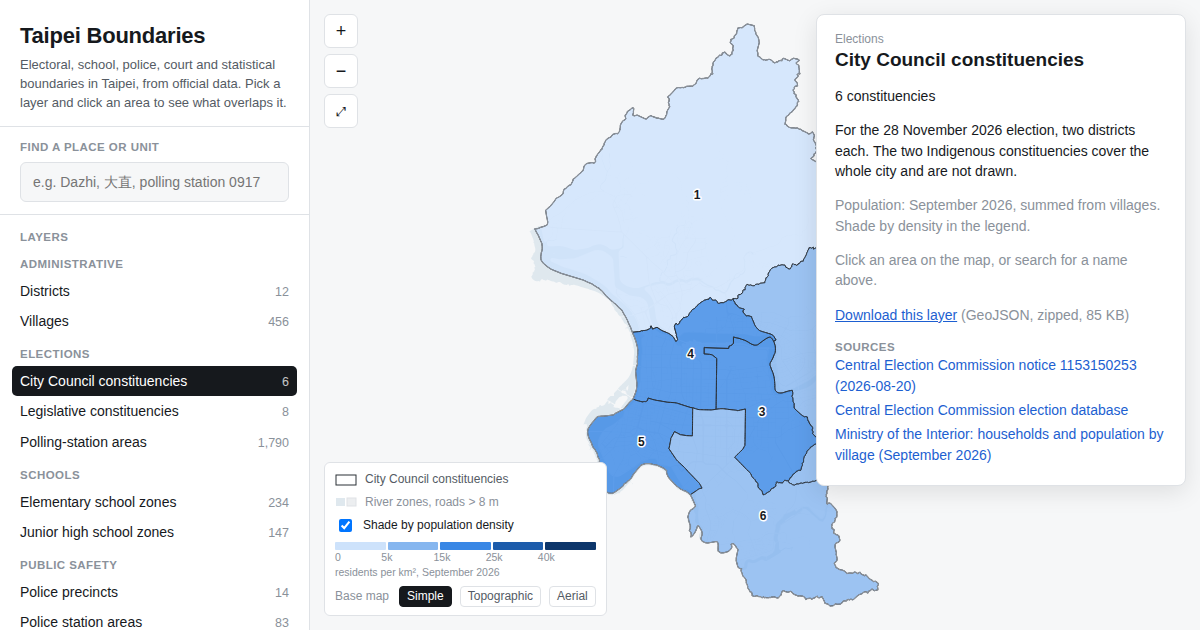
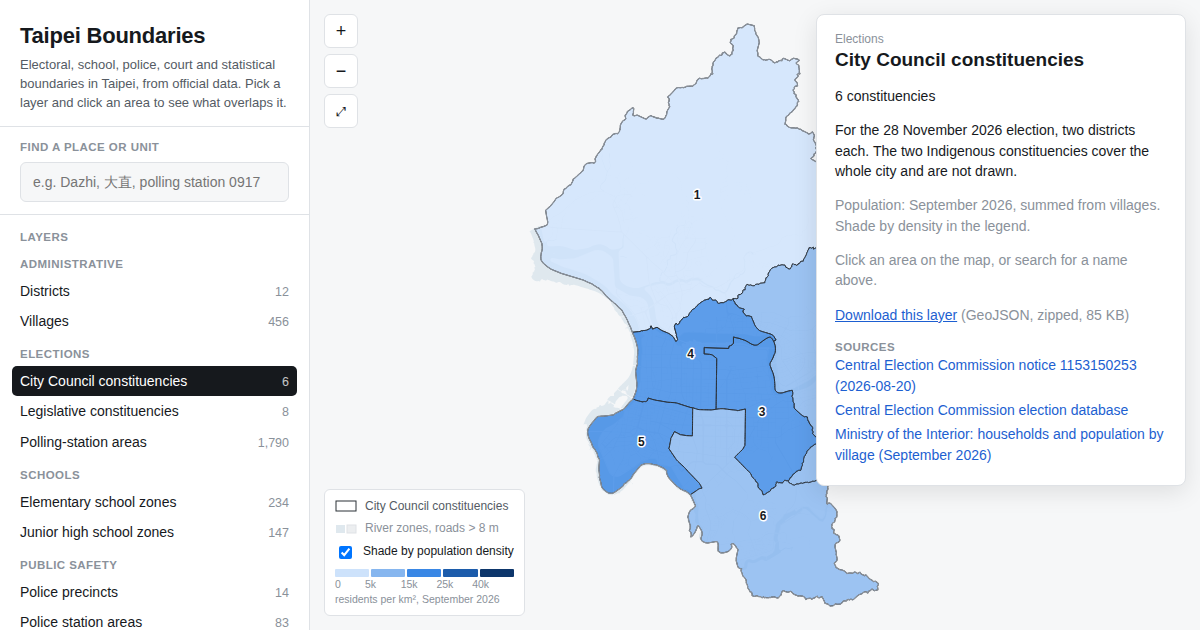
Taipei Boundaries: Layers switch with street map, aerial photo and Simple
The legend's base-map buttons become a Google-Maps-style Layers thumbnail
that opens one thumbnail per base map. The topographic map is dropped; the
Urban Development Department's street map (EMap_97) is added, faded to
50% in its own colours (inverted with hues kept in dark mode). Our own
MRT dots are not drawn over the street map, which has its own.

Claude-Session: https://claude.ai/code/session_01BnXE7ooyv3tu27QzrM6csQ

Changed region(s): [[0.2775, 0.754, 0.4933, 0.9651], [0.4933, 0.7238, 0.5242, 0.7841]]

diff --git a/index.html b/index.html
@@ -141,27 +141,37 @@ svg.map { display: block; width: 100%; height: 100%; background: var(--bg); touc
 svg.map { position: relative; }
 .tiles { position: absolute; left: 0; top: 0; width: 100%; overflow: hidden; pointer-events: none; z-index: 0; }  /* own stacking context: tiles stay under the map, buttons and legend */
 .tiles img { position: absolute; max-width: none; user-select: none; -webkit-user-drag: none; }
-.tiles.topo { filter: grayscale(1); opacity: .75; }
-@media (prefers-color-scheme: dark) { :root:not([data-theme="light"]) .tiles.topo { filter: grayscale(1) invert(1); opacity: .6; } }
-:root[data-theme="dark"] .tiles.topo { filter: grayscale(1) invert(1); opacity: .6; }
+.tiles.emap, .bm-thumb.emap { opacity: .5; }  /* the street map keeps its colours, faded so the boundaries stay on top */
+@media (prefers-color-scheme: dark) { :root:not([data-theme="light"]) :is(.tiles, .bm-thumb).emap { filter: invert(1) hue-rotate(180deg); opacity: .45; } }
+:root[data-theme="dark"] :is(.tiles, .bm-thumb).emap { filter: invert(1) hue-rotate(180deg); opacity: .45; }
+.base-emap { background: var(--land); }
 .has-tiles svg.map { background: transparent; }
 .has-tiles .land { fill: none; }
 /* the city's tiles carry neighbouring areas too (the aerial photo fills them with black): cover everything outside the city */
 .outside { display: none; }
 .has-tiles .outside { display: inline; fill: var(--bg); fill-rule: evenodd; pointer-events: none; }
 .has-tiles .water, .has-tiles .roads { display: none; }
-.base-topo .unit { stroke: var(--ink); stroke-width: 1.1; }
-.base-topo .unit.sparse { stroke-width: 1.6; }
+.base-emap .unit { stroke: var(--ink); stroke-width: 1.1; }
+.base-emap .unit.sparse { stroke-width: 1.6; }
 .base-aerial .unit { stroke: #fff; stroke-width: 1.2; }
 .base-aerial .unit.sparse { stroke-width: 1.8; }
 .base-aerial .city-edge { stroke: #fff; }
 .base-aerial .ctx { stroke: rgba(255, 255, 255, .6); }
-.legend .base { flex-wrap: wrap; gap: 4px; }
-.legend .base-k { color: var(--ink-3); margin-right: 2px; }
-.legend .base button { border: 1px solid var(--rule); background: var(--panel); border-radius: 4px; padding: 1px 7px; color: var(--ink-2); cursor: pointer; }
-.legend .base button:hover { background: var(--hover); }
-.legend .base button:focus-visible { outline: 2px solid var(--accent); }
-.legend .base button[aria-pressed="true"] { background: var(--ink); border-color: var(--ink); color: var(--panel); }
+/* base map switch, as in Google Maps: a thumbnail button that opens a row of thumbnails, one per base map */
+.basemaps { position: absolute; left: 14px; bottom: 14px; z-index: 3; display: flex; align-items: flex-end; gap: 8px; }
+.bm-toggle { position: relative; width: 64px; height: 64px; padding: 0; border: 2px solid #fff; border-radius: 8px; overflow: hidden;
+  background: var(--land); box-shadow: 0 1px 4px rgba(0, 0, 0, .3); cursor: pointer; }
+.bm-toggle:focus-visible, .bm-menu button:focus-visible { outline: 2px solid var(--accent); outline-offset: 2px; }
+.bm-thumb { display: block; width: 100%; height: 100%; object-fit: cover; }
+.bm-label { position: absolute; left: 0; right: 0; bottom: 0; display: flex; justify-content: center; align-items: center; gap: 3px;
+  padding: 14px 0 4px; color: #fff; font-size: 11px; font-weight: 600; background: linear-gradient(rgba(0, 0, 0, 0), rgba(0, 0, 0, .6)); }
+.bm-menu { display: flex; gap: 8px; padding: 6px 8px; background: var(--panel); border: 1px solid var(--rule); border-radius: 8px; box-shadow: 0 2px 10px rgba(0, 0, 0, .15); }
+.bm-menu[hidden] { display: none; }
+.bm-menu button { display: grid; justify-items: center; gap: 3px; min-width: 56px; white-space: nowrap; padding: 0; border: 0; background: none; color: var(--ink-2); font-size: 11px; cursor: pointer; }
+.bm-menu .bm-thumb { width: 52px; height: 52px; border: 2px solid var(--rule); border-radius: 6px; background: var(--land); }
+.bm-menu button:hover .bm-thumb { border-color: var(--ink-3); }
+.bm-menu button[aria-pressed="true"] { color: var(--ink); font-weight: 600; }
+.bm-menu button[aria-pressed="true"] .bm-thumb { border-color: var(--ink); }
 .legend .attrib { color: var(--ink-3); font-size: 11px; display: block; }
 .legend .attrib a { color: inherit; }
 .land { fill: var(--land); }
@@ -199,8 +209,8 @@ svg.map { position: relative; }
 .tools button { width: 34px; height: 34px; border-radius: 6px; border: 1px solid var(--rule); background: var(--panel); cursor: pointer; font-size: 18px; line-height: 1; }
 .tools button:hover { background: var(--bg); }
 .tools button:focus-visible { outline: 2px solid var(--accent); }
-.legend { position: absolute; left: 14px; bottom: 14px; background: var(--panel); border: 1px solid var(--rule); border-radius: 6px; padding: 8px 10px;
-  display: grid; gap: 5px; font-size: 12px; color: var(--ink-2); max-width: calc(100% - 28px); }
+.legend { position: absolute; left: 88px; bottom: 14px; background: var(--panel); border: 1px solid var(--rule); border-radius: 6px; padding: 8px 10px;
+  display: grid; gap: 5px; font-size: 12px; color: var(--ink-2); max-width: calc(100% - 102px); }
 .legend .row { display: flex; gap: 8px; align-items: center; }
 .legend label.row { cursor: pointer; color: var(--ink); }
 .legend .metro-key { display: inline-flex; gap: 8px; align-items: center; }
@@ -225,6 +235,8 @@ svg.map { position: relative; }
   .mapbox { position: relative; }
   svg.map { height: 62vh; min-height: 340px; }
   .legend { position: static; max-width: none; border: 0; border-top: 1px solid var(--rule); border-radius: 0; padding: 10px 16px; }
+  .basemaps { bottom: calc(100% - max(62vh, 340px) + 12px); }  /* 12 px above the map's bottom edge (the legend is below the map), so the menu opens upwards */
+  .bm-toggle { width: 56px; height: 56px; }
   .panel { position: static; width: auto; max-height: none; border: 0; border-top: 1px solid var(--rule); border-radius: 0; box-shadow: none; }
   .side-scroll { overflow: visible; }
   .layers { display: none; }
@@ -278,7 +290,7 @@ img { max-width: 100%; }
           <li><a href="downloads/taipei_boundaries_geojson.zip" download>All layers as GeoJSON</a><span class="what">20 files, zipped, 4.2 MB</span></li>
           <li><a href="downloads/taipei_boundaries_gpkg.zip" download>All layers as a GeoPackage</a><span class="what">one file, zipped, 7.3 MB</span></li>
           <li><a href="downloads/taipei_boundaries_tables.zip" download>Village and lin crosswalks, overlaps, facility locations</a><span class="what">4 CSV files, zipped, 501 KB</span></li>
-          <li><a href="downloads/README_zh.md" download>Methods, sources and known issues</a><span class="what">in Chinese, 25 KB</span></li>
+          <li><a href="downloads/README_zh.md" download>Methods, sources and known issues</a><span class="what">in Chinese, 26 KB</span></li>
         </ul>
       </details>
       <details class="about" id="about">
@@ -288,7 +300,7 @@ img { max-width: 100%; }
         <p>English names are official where one exists. Labels like “Polling station 0917” are descriptions.</p>
         <p>Population is household registration by village, September 2026, shown only for layers made of whole villages.</p>
         <p>Squares mark district offices, police, health centers, schools and fire stations. They sit at the official street address, placed with the Civil Affairs Department’s house-number coordinates; fire stations use the Fire Department’s own coordinates.</p>
-        <p>Base maps: Simple draws roads wider than 8 m (Public Works Department), river zones (urban-plan zoning map) and MRT stations (Taipei Rapid Transit Corporation). The topographic map and aerial photo (2025) are loaded live from the Taipei City Urban Development Department.</p>
+        <p>Base maps: Simple draws roads wider than 8 m (Public Works Department), river zones (urban-plan zoning map) and MRT stations (Taipei Rapid Transit Corporation). The street map and aerial photo (2025) are loaded live from the Taipei City Urban Development Department.</p>
         <p>Methods, sources and known issues: <a href="downloads/README_zh.md">README</a> (in Chinese).</p>
         <p>Inspired by <a href="https://boundaries.beta.nyc/" target="_blank" rel="noopener">NYC Boundaries</a> by BetaNYC.</p>
       </details>
@@ -327,6 +339,7 @@ img { max-width: 100%; }
       <button id="zreset" aria-label="Show the whole city" style="font-size:13px">⤢</button>
     </div>
     <div class="legend" id="legend"></div>
+    <div class="basemaps" id="basemaps"></div>
     <div class="tip" id="tip" hidden></div>
     <div class="loading" id="loading">Loading boundaries…</div>
     </div>
@@ -596,12 +609,9 @@ function drawLegend() {
       <div class="ticks"><span>0</span>${BREAKS.map(b => `<span>${b / 1000}k</span>`).join("")}</div>
       <div class="ticks" style="display:block">residents per km², ${esc(POP_MONTH)}</div></div>`;
   }
-  html += `<div class="row base" role="group" aria-label="Base map"><span class="base-k">Base map</span>${Object.entries(BASEMAPS).map(([k, b]) =>
-    `<button type="button" data-base="${k}" aria-pressed="${state.base === k}">${b.short}</button>`).join("")}</div>`;
   if (bm.url) html += `<span class="attrib">${bm.credit}: <a href="${UDD_DOC}" target="_blank" rel="noopener">Taipei City Urban Development Dept.</a></span>`;
   $("legend").innerHTML = html;
   const cb = $("shade"); if (cb) cb.onchange = () => setShade(cb.checked);
-  $("legend").querySelectorAll("[data-base]").forEach(b => { b.onclick = () => setBase(b.dataset.base); });
 }
 function drawBase() {
   d3.select("#water").attr("d", path(BASEMAP.water));
@@ -614,6 +624,7 @@ function drawBase() {
 const METRO_DOTS = 8, METRO_NAMES = 4;
 const metresPerPx = () => 1 / (proj.scale() * transform.k);
 function metroLevel() {  // 0 nothing, 1 dots, 2 dots and names
+  if (state.base === "emap") return 0;  // the street map has its own stations
   const m = metresPerPx();
   return transform.k < 1.5 || m > METRO_DOTS ? 0 : m > METRO_NAMES ? 1 : 2;
 }
@@ -642,10 +653,10 @@ const WMTS = { x0: -5372600, y0: 10001100,
         236235.59151877242, 94494.23660750895, 47247.118303754476, 23623.559151877238, 9449.423660750896, 4724.711830375448,
         2362.355915187724, 944.9423660750896, 472.4711830375448, 236.2355915187724].map(d => d * 0.00028) };
 const BASEMAPS = {
-  simple: { short: "Simple" },
-  topo: { short: "Topographic", credit: "Topographic map (2025)", cls: "topo", bbox: [293391, 2759039, 319864, 2791263],  // the service's own extent
-    url: (z, r, c) => `${UDD}TOPO_97/DGN_2025_97/MapServer/WMTS/tile/1.0.0/TOPO_97_DGN_2025_97/default/default028mm/${z}/${r}/${c}.png` },
-  aerial: { short: "Aerial", credit: "Aerial photo (2025)", cls: "aerial", bbox: [295200, 2760900, 317600, 2789700],
+  simple: { name: "Simple" },
+  emap: { name: "Street map", credit: "Street map", cls: "emap", bbox: [296000, 2760900, 317600, 2789700],  // the service's own extent
+    url: (z, r, c) => `${UDD}Urban_97/EMap_97/MapServer/WMTS/tile/1.0.0/Urban_97_EMap_97/default/default028mm/${z}/${r}/${c}.png` },
+  aerial: { name: "Aerial", credit: "Aerial photo (2025)", cls: "aerial", bbox: [295200, 2760900, 317600, 2789700],
     url: (z, r, c) => `${UDD}Aerial_97/Ortho_2025_97/MapServer/WMTS/tile/1.0.0/Aerial_97_Ortho_2025_97/default/default028mm/${z}/${r}/${c}` },
 };
 const TILES = new Map();  // "z/row/col" -> { img, z, r, c, done }
@@ -718,10 +729,42 @@ function setBase(k) {
   $("tiles").className = "tiles" + (bm.cls ? " " + bm.cls : "");
   const mb = $("mapbox");
   mb.classList.toggle("has-tiles", !!bm.url);
-  mb.classList.toggle("base-topo", k === "topo");
+  mb.classList.toggle("base-emap", k === "emap");
   mb.classList.toggle("base-aerial", k === "aerial");
   updateTiles(true);
+  placeMetro();
   drawLegend();
+  drawBaseSwitch();
+}
+
+// ---------- base map switch, as in Google Maps: a "Layers" thumbnail that opens one thumbnail per base map.
+// Every thumbnail shows the same square, one level-10 tile on the Tamsui River west of Ximen. The street map and
+// aerial thumbnails are that tile, loaded from the city's server like the map itself; Simple is drawn from our data.
+const THUMB = { z: 10, r: 10674, c: 8376 };
+const LAYERS_ICON = `<svg width="12" height="12" viewBox="0 0 12 12" aria-hidden="true"><path d="M6 1.5 11 4.2 6 6.9 1 4.2Z" fill="currentColor"></path><path d="M1.6 6.6 6 9 10.4 6.6" fill="none" stroke="currentColor" stroke-width="1.3"></path></svg>`;
+let SIMPLE_THUMB = "";
+function drawSimpleThumb() {
+  const span = 256 * WMTS.res[THUMB.z], x0 = WMTS.x0 + THUMB.c * span, y1 = WMTS.y0 - THUMB.r * span, s = 64 / span;
+  const p = d3.geoPath(d3.geoIdentity().reflectY(true).scale(s).translate([-x0 * s, y1 * s]).clipExtent([[0, 0], [64, 64]]));
+  SIMPLE_THUMB = `<svg class="bm-thumb" viewBox="0 0 64 64" aria-hidden="true"><rect width="64" height="64" style="fill:var(--land)"></rect>`
+    + `<path d="${p(BASEMAP.water) || ""}" style="fill:var(--water)"></path><path d="${p(BASEMAP.roads) || ""}" style="fill:var(--road)"></path></svg>`;
+}
+function thumb(k, lazy) {
+  const b = BASEMAPS[k];
+  return b.url ? `<img class="bm-thumb ${b.cls}" alt=""${lazy ? ' loading="lazy"' : ""} src="${b.url(THUMB.z, THUMB.r, THUMB.c)}">` : SIMPLE_THUMB;
+}
+function drawBaseSwitch() {
+  const preview = state.base === "aerial" ? "simple" : "aerial";  // like Google: the closed button shows another base map
+  $("basemaps").innerHTML = `<button type="button" class="bm-toggle" id="bm-toggle" aria-expanded="false" aria-controls="bm-menu"
+      aria-label="Base map: ${BASEMAPS[state.base].name}. Choose another">${thumb(preview, false)}<span class="bm-label">${LAYERS_ICON}Layers</span></button>
+    <div class="bm-menu" id="bm-menu" role="group" aria-label="Base map" hidden>${Object.entries(BASEMAPS).map(([k, b]) =>
+      `<button type="button" data-base="${k}" aria-pressed="${state.base === k}">${thumb(k, true)}<span>${b.name}</span></button>`).join("")}</div>`;
+  $("bm-toggle").onclick = () => openBaseMenu($("bm-menu").hidden);
+  $("bm-menu").querySelectorAll("[data-base]").forEach(b => { b.onclick = () => { openBaseMenu(false); setBase(b.dataset.base); $("bm-toggle").focus(); }; });
+}
+function openBaseMenu(open) {
+  $("bm-menu").hidden = !open;
+  $("bm-toggle").setAttribute("aria-expanded", open);
 }
 
 // ---------- facilities: the office, station or school behind a unit, at its official street address
@@ -1016,6 +1059,10 @@ async function start() {
   $("zout").onclick = () => svg.transition().duration(250).call(zoom.scaleBy, 1 / 1.6);
   $("zreset").onclick = () => svg.transition().duration(400).call(zoom.transform, d3.zoomIdentity);
 
+  drawSimpleThumb();
+  drawBaseSwitch();
+  document.addEventListener("click", e => { if (!e.target.closest("#basemaps")) openBaseMenu(false); });
+  document.addEventListener("keydown", e => { if (e.key === "Escape" && !$("bm-menu").hidden) { openBaseMenu(false); $("bm-toggle").focus(); } });
   buildLayerList();
   buildIndex();
   buildKeys();

diff --git a/downloads/README_zh.md b/downloads/README_zh.md
@@ -184,7 +184,8 @@
 - 「點一下看各層」用的是簡化後的線；隨機 400 個點、19 層和原始資料比對，全部一致。
 - 人口：內政部戶政司 115 年 9 月各里人口，加總與民政局各區、全市人口（2,418,872 人）完全一致。只顯示由完整里組成的圖層（行政區、里、選區、警察、消防、法院、清潔隊、健康中心、郵遞區號），這些是精確加總；投開票所和學區由鄰組成，鄰的人口沒有開放資料；次分區、統計區、都市計畫分區不沿里界。這些圖層不顯示人口，也不用面積比例推估。密度用總面積（含山坡地、河道與河濱）計算。
 - 底圖：工務局「寬度超過8公尺道路」資料集（103–105 年建置，資料檔日期 2025-09；7,667 段中有 263 段登記寬度不到 8 公尺，照原資料全部畫出）、都市計畫使用分區中的河川區、行水區、河道用地，以及臺北捷運出入口座標平均得出的車站位置（74 站在臺北市內）。站名只有中文。
-- 底圖可以切換：Simple（上一點的三種資料，預設）、臺北市政府都市發展局的地形圖（114 年版）和航測影像（114 年）。後兩者是都發局的 TWD97 圖磚，瀏覽時直接從都發局伺服器載入畫面範圍內的圖磚，網站不另存。都發局規定不得複製轉存，也不得短時間大量取圖。
+- 捷運站只在放大後顯示：每像素 8 公尺以內出現點，4 公尺以內出現站名。
+- 底圖可以切換：Simple（上一點的三種資料，預設）、臺北市政府都市發展局的電子地圖（調淡顯示；它本身畫有捷運，開電子地圖時不另畫捷運站）和航測影像（114 年）。後兩者是都發局的 TWD97 圖磚，瀏覽時直接從都發局伺服器載入畫面範圍內的圖磚，網站不另存。都發局規定不得複製轉存，也不得短時間大量取圖。
 - 區公所、分局、派出所、健康服務中心、學校、消防分隊以方塊標在地圖上，選取單位時標出它的設施並列出地址（見上方「設施位置」）。
 - 英文名稱只用官方有的：行政區、里（中華郵政村里英譯檔，檔案日期 2013 年；其中查不到 12 個里的現行寫法，保留中文，例如舊莊里在檔中寫作舊庄里）、警察分局（市警局英文網站）、法院（地院英文網站；內湖簡易庭沒有官方英文）。其他專有名稱保留中文。有編號的單位和服務轄區用描述性的英文標籤，例如 Council constituency 1、Polling station 0917、Neihu District health center，這些是我加的說明，不是官方英文名。
 
@@ -236,7 +237,7 @@
 - 臺北市各行政區人口數及戶數（民政局，用來核對）：https://data.taipei/dataset/detail?id=6a1dbb4e-e99c-4e67-ab09-f6d83852dc99
 - 臺北市寬度超過 8 公尺道路（工務局，底圖）：https://data.taipei/dataset/detail?id=ee2e4015-8844-48fb-aa57-31209909b0fc
 - 臺北捷運車站出入口座標（臺北捷運公司，底圖）：https://data.taipei/dataset/detail?id=cfa4778c-62c1-497b-b704-756231de348b
-- 臺北市政府都市發展局 WMTS 圖磚服務（地形圖、航測影像底圖）：https://www.historygis.udd.gov.taipei/urban/map/doc/臺北市政府都市發展局WMTS圖磚服務介接說明.pdf
+- 臺北市政府都市發展局 WMTS 圖磚服務（電子地圖、航測影像底圖）：https://www.historygis.udd.gov.taipei/urban/map/doc/臺北市政府都市發展局WMTS圖磚服務介接說明.pdf
 - 臺北市門牌位置數值資料（民政局）：https://data.taipei/dataset/detail?id=b7c8e724-1e98-45ee-a0bd-f3840623ed97
 - 臺北市政府各機關學校聯絡資訊（人事處）：https://data.taipei/dataset/detail?id=6b99dd93-9c63-43c9-96eb-0bfffce97217
 - 臺北市政府警察局名稱及地址：https://data.taipei/dataset/detail?id=6c41536a-3ce2-4102-bdfc-6b5f3d13ef91
